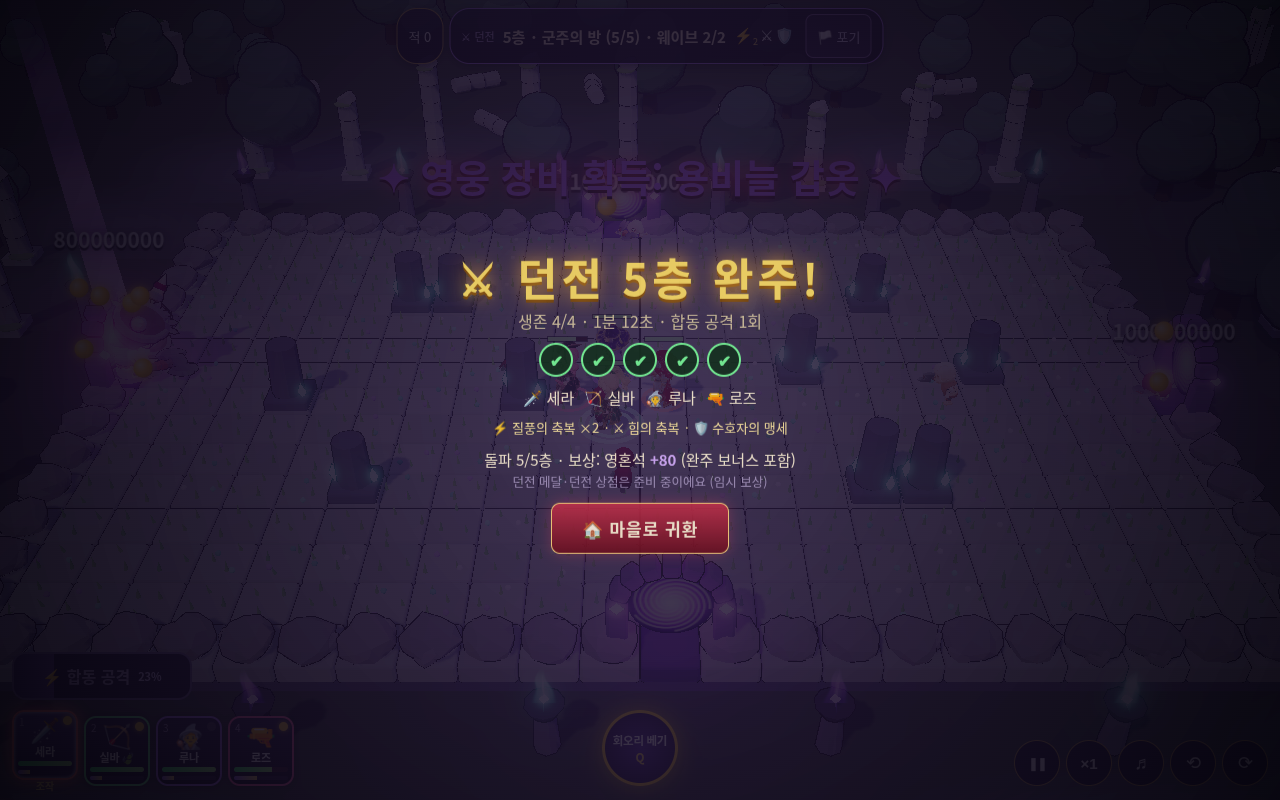
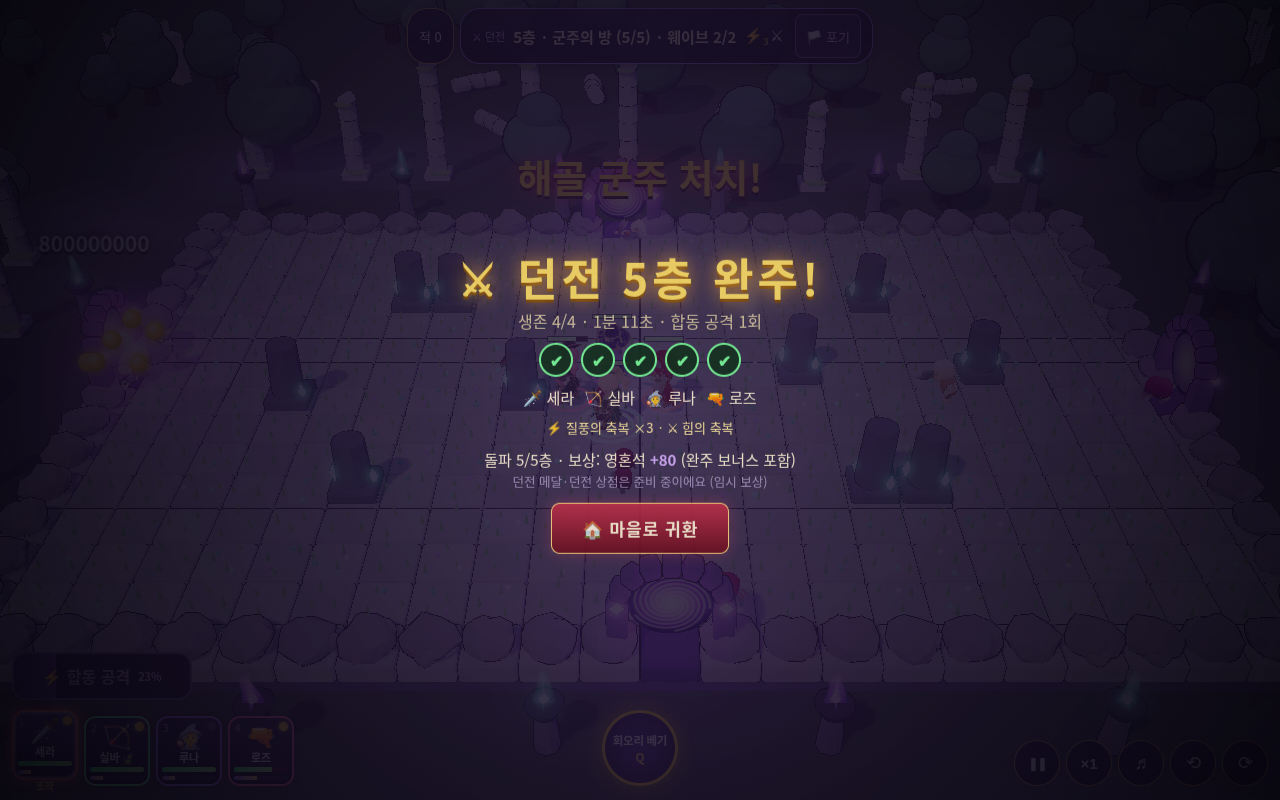
docs: 던전 3단계 진행 23:55

diff --git a/docs/DUNGEON_2026-10-22.md b/docs/DUNGEON_2026-10-22.md
@@ -32,7 +32,7 @@
 - [x] commit + push + Pages 빌드 확인 (9d0abad, 22:45 KST built)
 
 ## 3단계 — 5개 층 · 축복 · 합동 공격 (브랜치 `dungeon3`, worktree /workspace/hd3d_dg3)
-- [x] 5개 층 (data/dungeon.js FLOORS): 1층 해골 동굴 2.4/1.4 · 2층 고블린 굴 2.5/1.45 · 3층 버섯 늪 2.6/1.5 · 4층 기사의 회랑 2.7/1.55 · 5층 군주의 방(임시 보스: 해골 군주 1 + 졸개, 1.6/1.4 — 4단계에서 새 Meshy 보스로 교체) (hpMul/dmgMul)
+- [x] 5개 층 (data/dungeon.js FLOORS): 1층 해골 동굴 2.4/1.4 · 2층 고블린 굴 2.5/1.45 · 3층 버섯 늪 2.6/1.5 · 4층 기사의 회랑 2.65/1.5 · 5층 군주의 방(임시 보스: 해골 군주 1 + 졸개, 1.4/1.2 — 4단계에서 새 Meshy 보스로 교체) (hpMul/dmgMul)
 - [x] 층 사이 축복 3택1 (판 한정, 중복 없음, 최대 횟수): 질풍(공속 +15%) · 힘(공격 +12%) · 예리함(치명 +12%, 치명 피해 +25%) · 생명의 샘(다음 층 전원 50% 회복) · 재생(초당 1%) · 별빛 충전(게이지 +40%, 다음 층 30% 시작) · 역할: 수호자의 맹세(세라 받는 피해 -25%) · 명사수의 눈(실바·로즈 사거리 +15%, 공격 +15%) · 마력 폭주(루나 스킬 대기 -25%) · 맹호의 기세(서윤 공격 +20%, 받는 피해 -15%). 키보드 1~3
 - [x] 궁극기 게이지(영웅별 0~100, 초상화 아래 보라 막대): 전투 중 초당 1 + 처치마다 1.5 (전원) → 살아있는 전원 가득 = ⚡ 합동 공격 버튼(Space): 전원 스킬 동시 시전 + 0.55초 뒤 화면 전체 피해 = 기본 공격력 합 × 10 (기본 3명 ≈ 1080)
 - [x] 쓰러진 영웅: 그 층은 쉼 → 다음 층 시작 때 최대 체력 30% 로 복귀 · 살아남은 영웅은 층 사이 +15%
@@ -59,3 +59,7 @@
 - 21:55 KST — live run_all(fc646ed) 거의 끝(bossblack 이후 4개 남음). 지금까지 unique·waveprev 만 rc=1 / 0 FAIL (타임아웃) — 나머지 전부 OK(regress 알려진 차이 1, admin 94/94). 끝나면 main 에서 unique·waveprev 단독 재실행(/workspace/queue_a.sh → /workspace/queue_a.log). 문서 중복 블록(2단계 옛 사본) 정리.
 - 22:45 KST — 단독 재실행(main): unique 29 OK · waveprev 14 OK · snowvis 15/15 OK · ruinsvis 1차 rc=1(page.goto 30초 타임아웃, 0 FAIL) → goto 타임아웃 120초로 늘려 재실행 35 OK. **push 7f909be..9d0abad (DG_LIVE=true 포함), Pages built 9d0abad, 라이브 dungeon.js DG_LIVE=true 확인.** 2단계 완료.
 - 23:35 KST — 3단계 코드 완료 (브랜치 dungeon3 = main + seoyun 병합 + 3단계). node 단위 테스트 전부 통과. 브라우저 검사는 /workspace/queue_g.sh (seoyun 재실행 뒤 dungeon --shots → dgbal) 결과 대기.
+- 23:45 KST — 서윤(seoyun) main 병합·push bafc998 → dungeon3 에 main 병합(8673ee4, 파티 고르기·서윤 bruiser 포함). 축복에 서윤 전용 '맹호의 기세' 추가. 5층 임시 보스 처치 때 장비 드롭 안내만 뜨고 지급 안 되던 문제 → 던전에서는 보스 장비 드롭 없음.
+  dungeon.py 1차(병합 전 코드) 66/68 — 실패 2개는 검사 허용 오차(복귀 체력 114→115, 합동 공격 뒤 게이지 0.2) → 수정.
+  균형 시뮬(tests/dgbal.py: 기본 3명·강화/장비 없음·조작 영웅 가만히·축복 = 첫 카드·합동 공격 준비되면 바로): 처음 수치(4층 2.7/1.55 기사 3~5, 5층 1.6/1.4) 2회 모두 4층 전멸 → 4층 2.65/1.5 기사 2~3 · 5층 1.4/1.2 로 낮춤 → 3회: 완주 1 (5분 18초, 합동 공격 5회) · 5층 전멸 1 · 4층 전멸 1. 층당 55~77초, 1~3층 최저 체력 대개 50% 이상. 실제 플레이(이동·강화·장비)는 더 쉬움 → 채택.
+  최종 확인 /workspace/queue_i.sh: dungeon --shots → tablet → regress (하나씩) → /workspace/queue_i.log.
